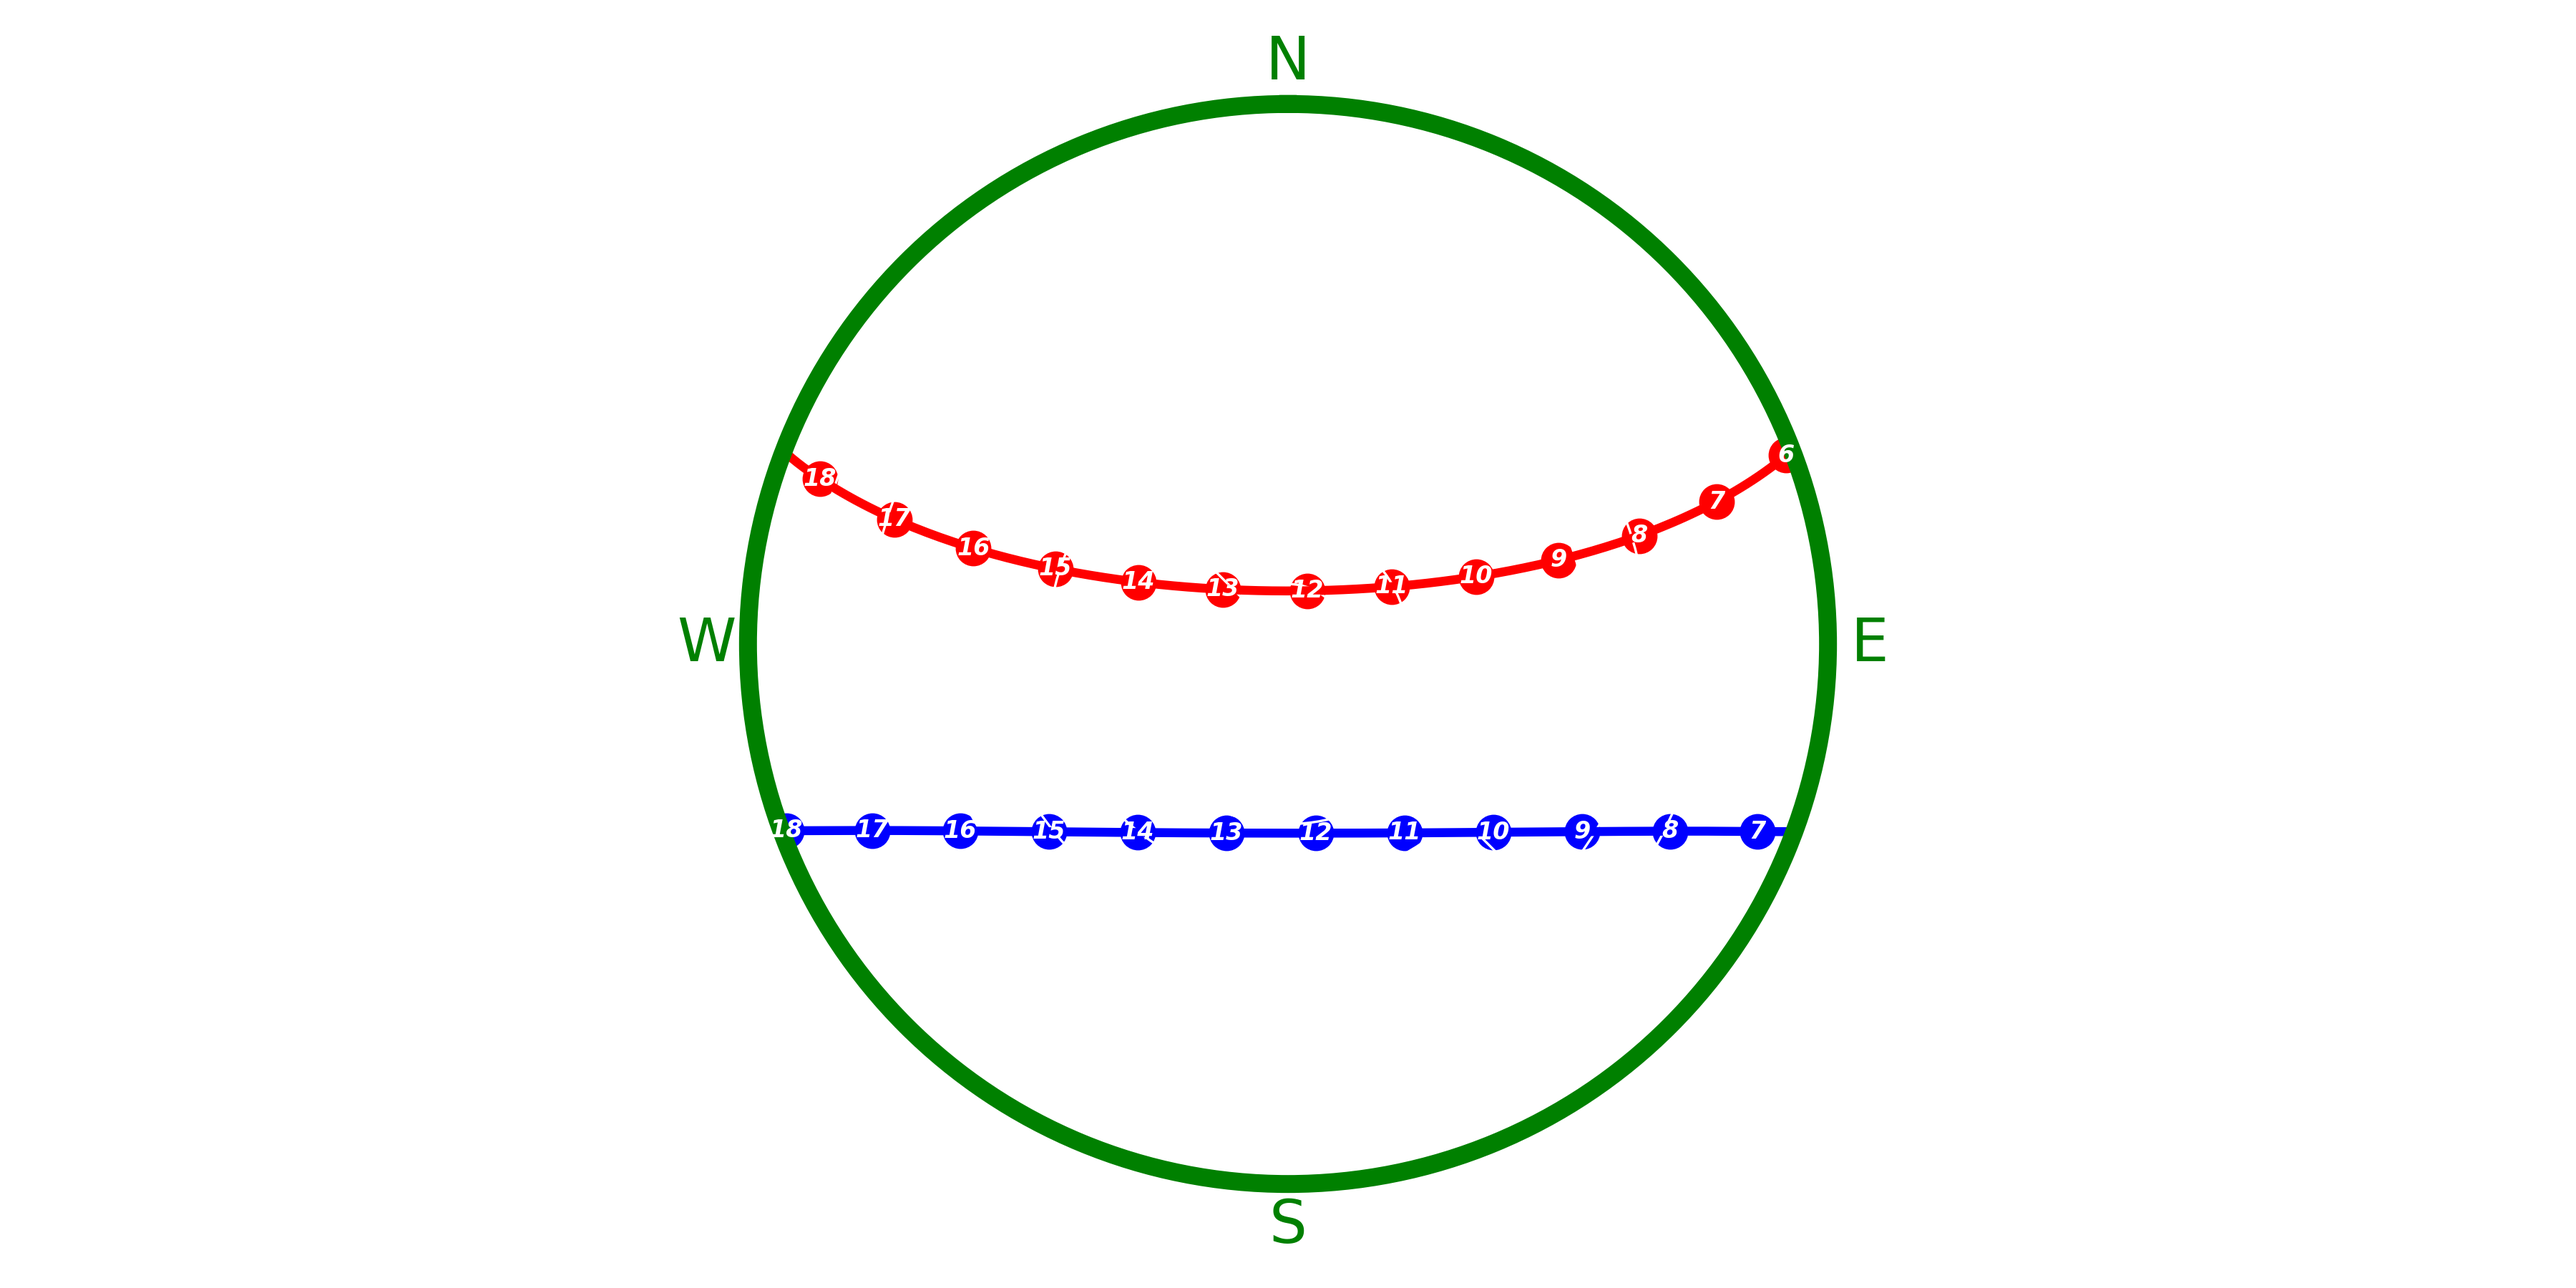
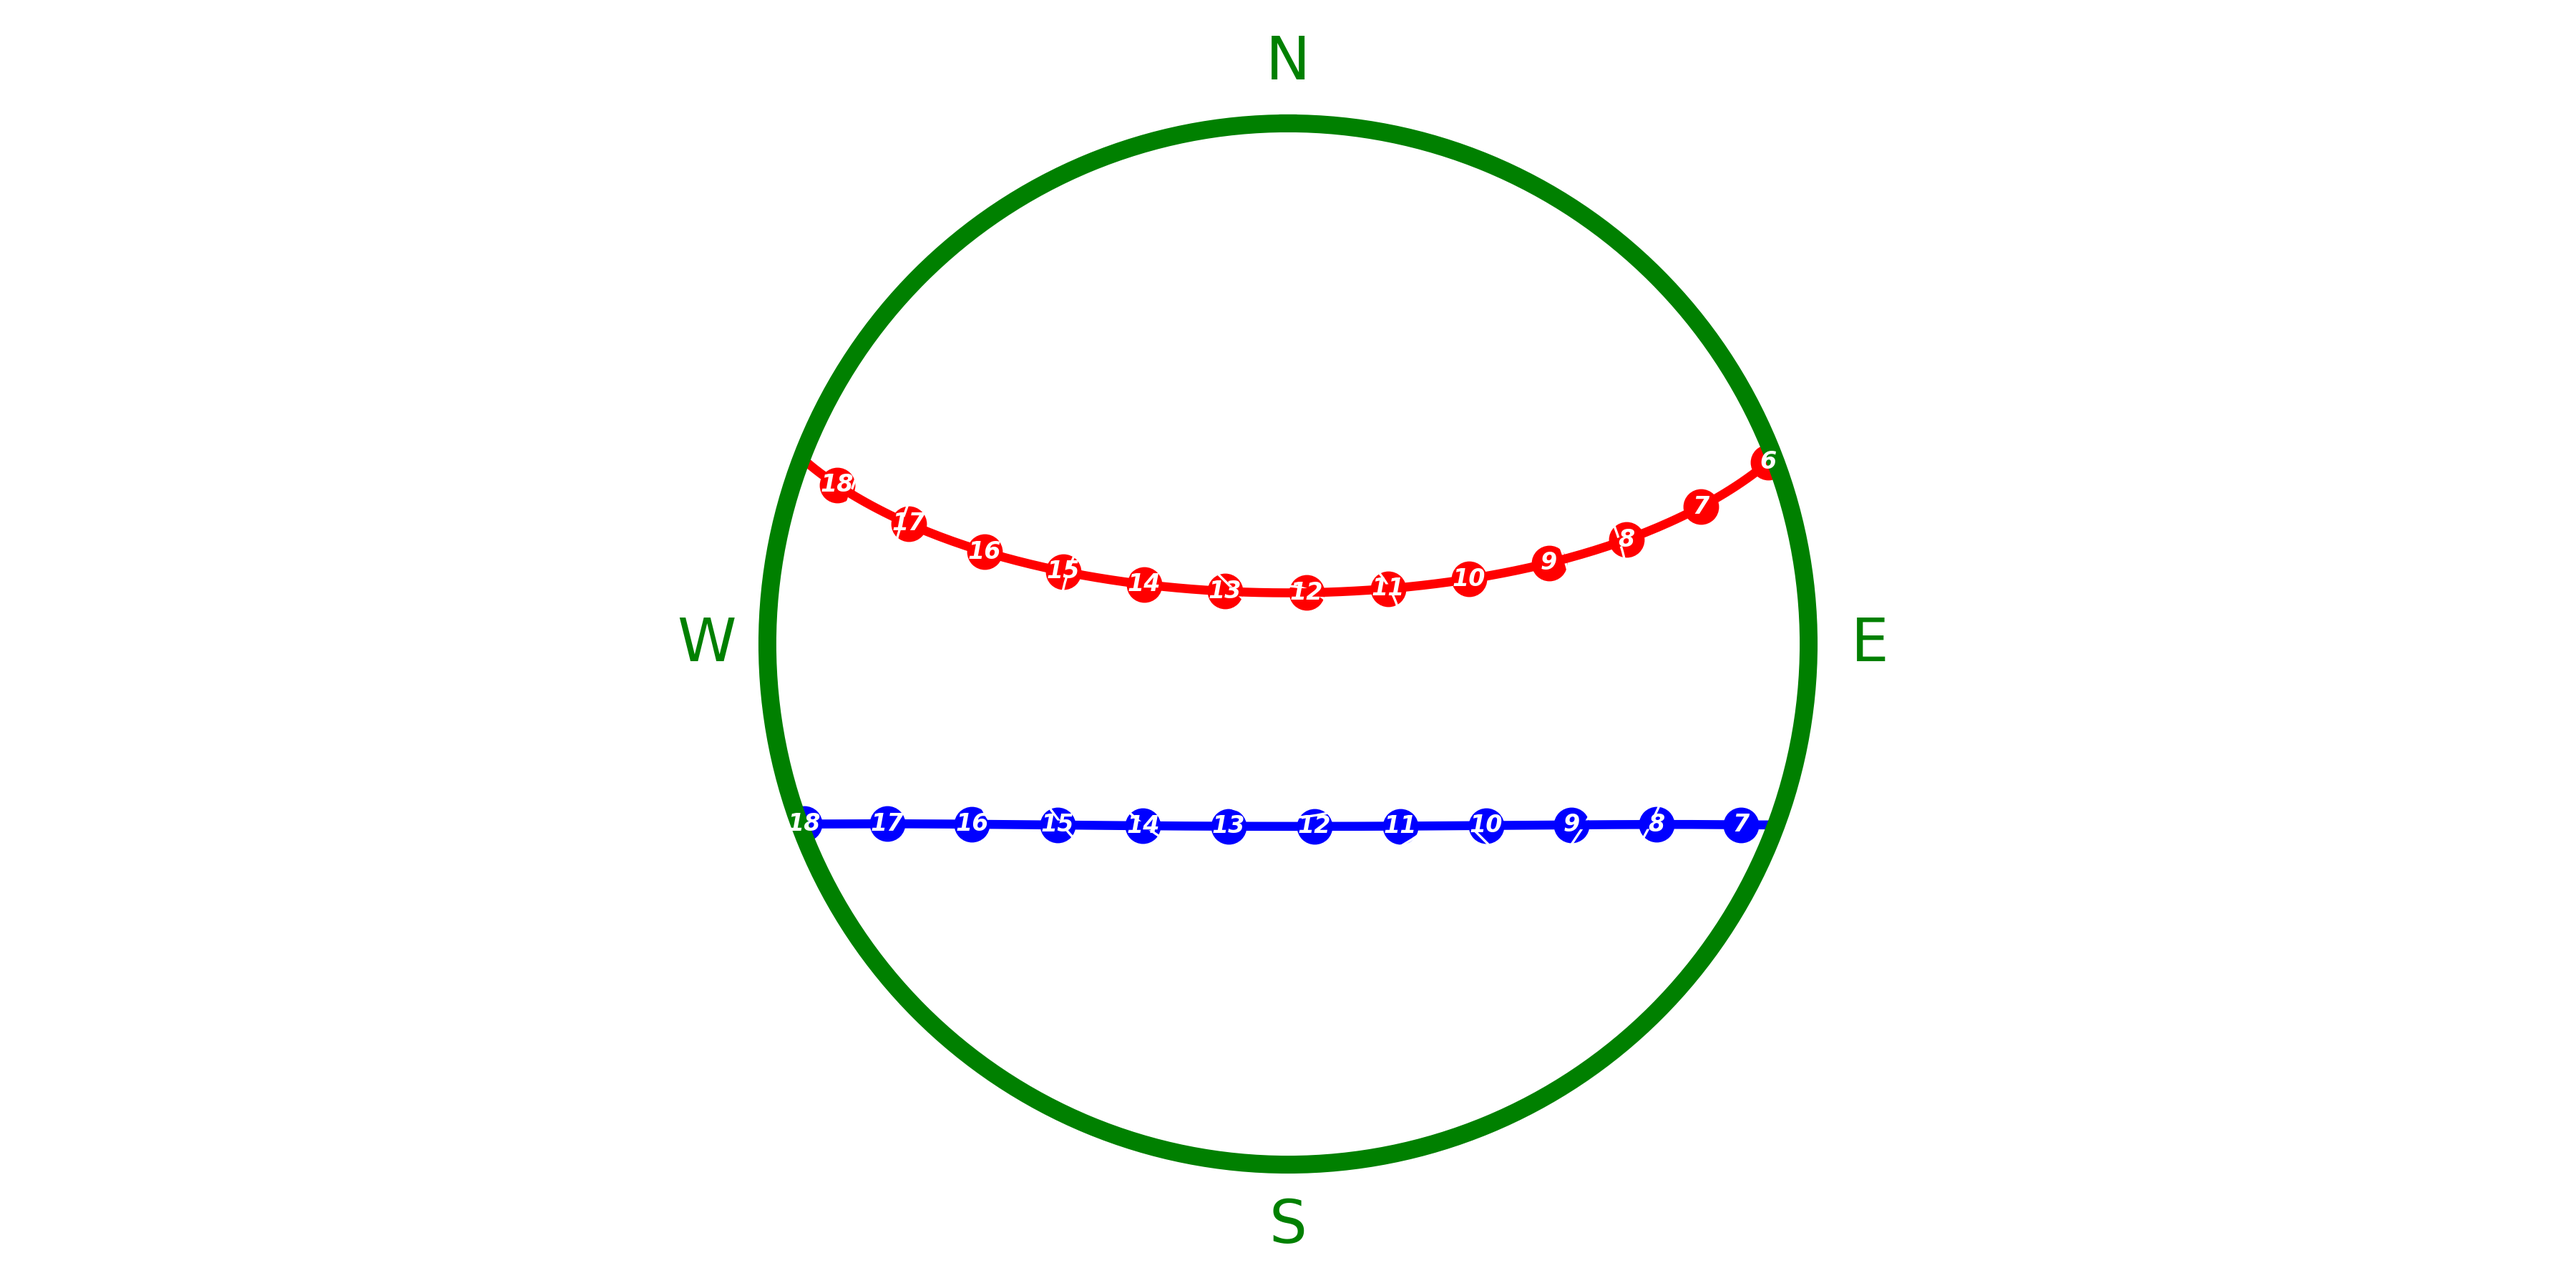
Pad coords more to increase circle size manually

Changed region(s): [[0.28, 0.0622, 0.7156, 0.9333], [0.4044, 0.4044, 0.6533, 0.4667]]

diff --git a/heat_scan/Djibouti/solar_path/view_hemisphere_Djibouti.py b/heat_scan/Djibouti/solar_path/view_hemisphere_Djibouti.py
@@ -7,14 +7,15 @@ import os
 import matplotlib
 
 matplotlib.use('TkAgg')
+# matplotlib.rcParams.update({'font.size': 15})
 
 # original photo links: https://www.istockphoto.com/photo/fisheye-perspective-of-trees-in-forest-gm141468118-78244507
 # https://www.istockphoto.com/photo/around-on-sky-taken-with-a-fisheye-lens-to-give-the-special-plate-effect-the-fresh-gm1250118657-364512394
 
 save_path = os.getcwd().replace('\\', '/') + '/'
 
-# background = 'light'
-background = 'dark'
+background = 'light'
+# background = 'dark'
 
 tz = 'Africa/Djibouti'
 lat, lon = 11.588016341753459, 43.14789764878434
@@ -77,6 +78,7 @@ ax.set_rlabel_position(0)
 plt.setp(ax.get_yticklabels()[::2], visible=False)
 
 ax.set_xticklabels(['N', '', 'E', '', 'S', '', 'W', ''], color=label_c, fontsize=20)
+ax.tick_params(axis='x', which='major', pad=10)
 
 import matplotlib.patches as mpatches
 from matplotlib.lines import Line2D
